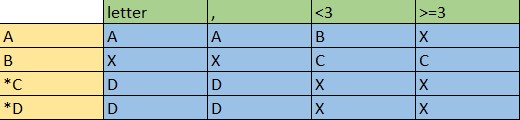
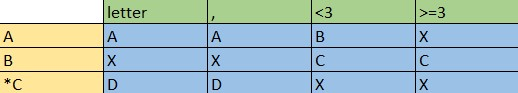
:sparkles: add transition table 30 dfa corrections and minor changes

Changed region(s): [[0.0, 0.0, 1.0, 1.0], [0.0, 0.8387, 0.0618, 0.9677]]

diff --git a/README.md b/README.md
@@ -297,9 +297,11 @@ In this case to simply the transition we use "Σ - {symbols}" like before, to re
 "digit" it's a number in the range [0-9], it's the same than {<3, >=3} so in the automata we will use the 
 two notations and "<3" its a digit in the range [0-2] and ">=3" a number in the range [3,9].
 
-Whe need two final states because the age could be anywhere in the structure, in the end, middle or end of the word, and in 
+Whe need one final state with a transition to itself because the age could be anywhere in the structure, in the end, middle or end of the word, and in 
 the case that are two ages or ages greater or equal than 30, or ages with only a digit or more than 2 digits, we have a transition to 
 a dead state "X".
+
+![complete_automata](/assets/30-less-transition-table.jpg)
 
 
 
